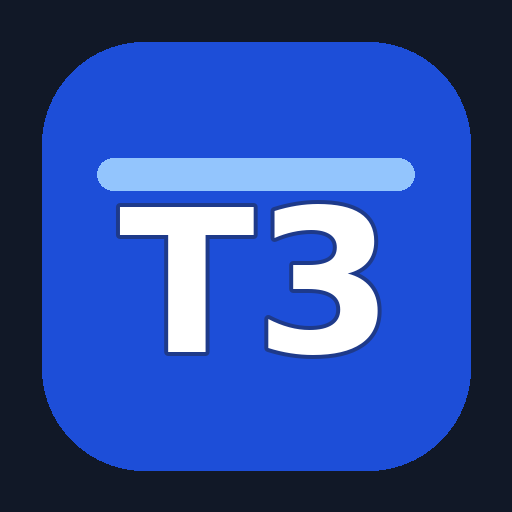
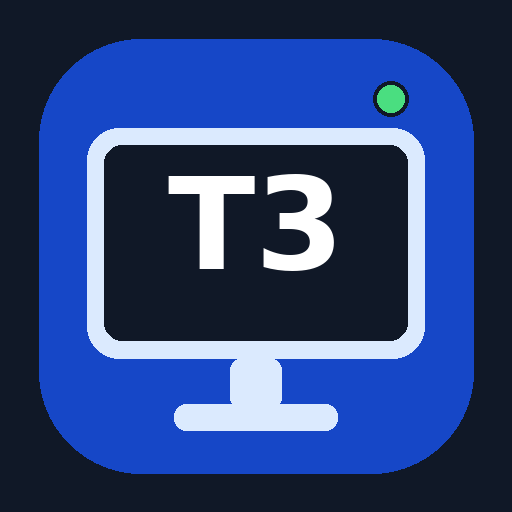
Rename integration to T3 Code Monitor

diff --git a/custom_components/t3code/config_flow.py b/custom_components/t3code/config_flow.py
@@ -67,7 +67,7 @@ class T3CodeConfigFlow(ConfigFlow, domain=DOMAIN):
 
         schema = vol.Schema(
             {
-                vol.Required(CONF_NAME, default="T3 Code"): str,
+                vol.Required(CONF_NAME, default="T3 Code Monitor"): str,
                 vol.Required(CONF_BASE_URL): str,
                 vol.Required(CONF_TOKEN): selector.TextSelector(
                     selector.TextSelectorConfig(type=selector.TextSelectorType.PASSWORD)

diff --git a/custom_components/t3code/sensor.py b/custom_components/t3code/sensor.py
@@ -91,7 +91,7 @@ class T3CodeSensor(CoordinatorEntity[T3CodeCoordinator], SensorEntity):
             "identifiers": {(DOMAIN, entry.entry_id)},
             "name": coordinator.environment_name,
             "manufacturer": "T3",
-            "model": "T3 Code environment",
+            "model": "T3 Code Monitor",
         }
 
     @property

diff --git a/custom_components/t3code/binary_sensor.py b/custom_components/t3code/binary_sensor.py
@@ -44,7 +44,7 @@ class T3CodeConnectionSensor(
             "identifiers": {(DOMAIN, entry.entry_id)},
             "name": coordinator.environment_name,
             "manufacturer": "T3",
-            "model": "T3 Code environment",
+            "model": "T3 Code Monitor",
         }
 
     @property

diff --git a/README.md b/README.md
@@ -1,4 +1,4 @@
-# T3 Code — Home Assistant integration
+# T3 Code Monitor for Home Assistant
 
 Monitor an **already-running** T3 Code environment from Home Assistant. This is a HACS custom integration, not a Home Assistant add-on: it does not install or run T3 Code, and it does not publish activity to T3 Connect. It can connect directly to a local environment or through an already-configured T3 Connect route.
 
@@ -17,8 +17,8 @@ T3 Code's shell RPC is currently an in-source client/server contract, not a docu
 Until this repository is accepted into HACS's default store, add it as a custom repository:
 
 1. In HACS, open **Integrations → ⋮ → Custom repositories**.
-2. Add this GitHub repository URL and choose **Integration** as the category.
-3. Install **T3 Code**, restart Home Assistant, then add it from **Settings → Devices & services**.
+2. Add `https://github.com/ijtan/ha-t3code-monitor` and choose **Integration** as the category.
+3. Install **T3 Code Monitor**, restart Home Assistant, then add it from **Settings → Devices & services**.
 
 Manual installation is also possible: copy `custom_components/t3code` into Home Assistant's `custom_components` directory and restart.
 
@@ -36,7 +36,7 @@ The integration exchanges the one-time credential for a bearer session narrowed 
 
 ## Entities
 
-Each environment creates count sensors for `starting`, `running`, `ready`, `idle`, `interrupted`, `stopped`, and `error`, plus threads without a session, pending approvals, pending input, running turns, and visible threads. These describe visible, unarchived T3 threads—not OS processes. The connection binary sensor reflects whether the integration can reach and synchronize with the environment.
+Each environment creates count sensors for `starting`, `running`, `ready`, `idle`, `interrupted`, `stopped`, and `error`, plus threads without a session, pending approvals, pending input, running turns, and visible threads. These describe visible, unarchived T3 threads, not operating-system processes. The connection binary sensor reflects whether the integration can reach and synchronize with the environment.
 
 ## Limitations
 
